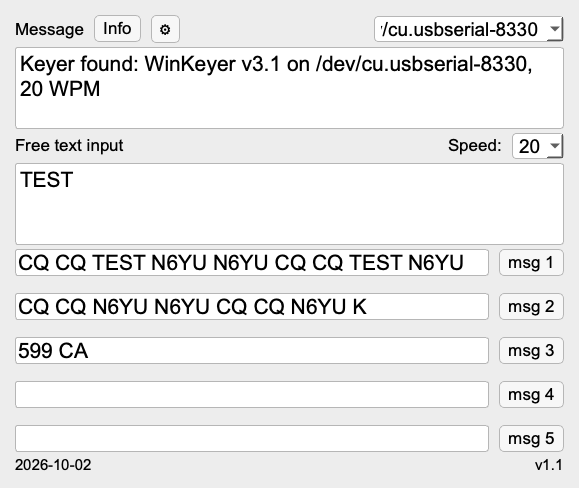
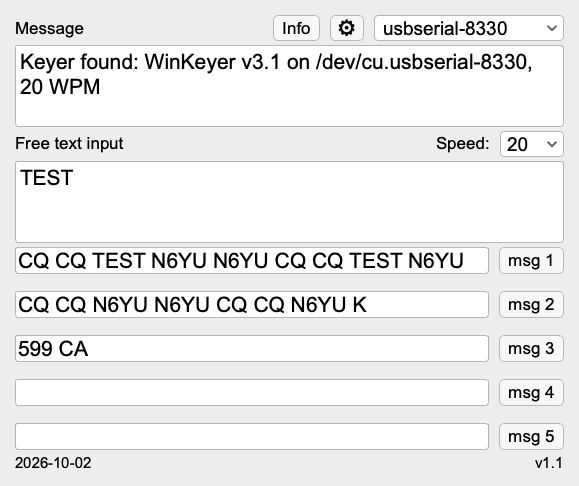
feat: port dropdown back to 14 pt; window title and Info summary read 'Keyer-mac'
Operator request: only the visible title bar and Info text change; file, repo and config names stay keyer-mac. README screenshot re-rendered with the new header.

diff --git a/keyer_mac/ui.py b/keyer_mac/ui.py
@@ -33,7 +33,6 @@ WINDOW_BG = "#ededed"
 FIELD_BG = "#ffffff"
 FONT_FAMILY = "Arial"
 PT_ENTRY, PT_DROPDOWN, PT_LABEL, PT_FOOTER = 16, 14, 13, 11
-PT_PORT = 12                # the port name is secondary information: smaller, quieter
 PT_GEAR = 20                # the gear glyph needs to be big to read as a gear
 CONTROL_HEIGHT = 26         # Info, gear and both dropdowns share one height
 HEADER_GAP = 10             # Info | gear | port box spacing
@@ -96,7 +95,7 @@ def diff_edit(old: str, new: str) -> tuple[int, str]:
     return len(old) - common, new[common:]
 
 
-INFO_SUMMARY = "keyer-mac is an auto keyer written for the Mac to interface with a WinKeyer Mini via USB."
+INFO_SUMMARY = "Keyer-mac is an auto keyer written for the Mac to interface with a WinKeyer Mini via USB."
 REPO = "jcarter-labs/keyer-mac"
 REPO_URL = "https://github.com/jcarter-labs/keyer-mac"
 
@@ -129,7 +128,7 @@ def info_text(port: str | None, firmware: int | None, config_file, xmlrpc: str) 
 class InfoDialog(QDialog):
     def __init__(self, text: str, parent=None):
         super().__init__(parent)
-        self.setWindowTitle("keyer-mac info")
+        self.setWindowTitle("Keyer-mac info")
         self.setStyleSheet(STYLE)
         layout = QVBoxLayout(self)
         self.body = QTextBrowser()
@@ -223,7 +222,7 @@ class MainWindow(QWidget):
                  list_ports=ports_mod.list_ports, start_bridge: bool = False,
                  bridge_host: str = "0.0.0.0", bridge_port: int = 8000):
         super().__init__()
-        self.setWindowTitle("keyer-mac")
+        self.setWindowTitle("Keyer-mac")
         self.setStyleSheet(STYLE)
         self.cfg = cfg if cfg is not None else config.load()
         self._list_ports = list_ports
@@ -263,7 +262,7 @@ class MainWindow(QWidget):
         # port dropdown: editable; picking or typing a port tries it at once
         self.port_box = QComboBox()
         self.port_box.setEditable(True)
-        self.port_box.setFont(arial(PT_PORT))
+        self.port_box.setFont(arial(PT_DROPDOWN))
         self.port_box.setView(QListView())
         self.port_box.setFixedSize(PORT_BOX_WIDTH, CONTROL_HEIGHT)
         header.addWidget(self.header_label)

diff --git a/tools/ui_fidelity_check.py b/tools/ui_fidelity_check.py
@@ -53,7 +53,7 @@ def build_targets() -> dict:
             "window_background": win["window"]["background"],
             "field_fill": win["text_boxes"][0]["fill"],
             "font_family": "Arial",
-            "font_pt": {"entry_and_display": 16, "speed_dropdown": 14, "port_dropdown": 12,
+            "font_pt": {"entry_and_display": 16, "dropdowns": 14,
                         "labels_and_buttons": 13, "gear_glyph": 20, "footer": 11},
             "header_gap": 10,
             "control_height": 26,
@@ -81,7 +81,7 @@ def check_window(targets: dict, out_png: str) -> list[tuple[str, bool, str]]:
     import keyer_mac
     from keyer_mac import config
     from keyer_mac.ui import (FONT_FAMILY, PT_DROPDOWN, PT_ENTRY, PT_FOOTER, PT_GEAR, PT_LABEL,
-                              PT_PORT, MainWindow)
+                              MainWindow)
 
     t = targets["targets_1_1"]
     tol = targets["tolerance_px"]
@@ -154,8 +154,7 @@ def check_window(targets: dict, out_png: str) -> list[tuple[str, bool, str]]:
         return f.family() == FONT_FAMILY and f.pointSize() == pt
     groups = {
         f"{PT_ENTRY} pt entry/display": [win.message, win.free_text, *win.msg_fields],
-        f"{PT_DROPDOWN} pt speed dropdown": [win.speed_box],
-        f"{PT_PORT} pt port dropdown": [win.port_box],
+        f"{PT_DROPDOWN} pt dropdowns": [win.speed_box, win.port_box],
         f"{PT_LABEL} pt labels/buttons": [win.header_label, win.free_label, win.speed_label, win.info_button,
                                           *win.msg_buttons],
         f"{PT_GEAR} pt gear glyph": [win.gear],

diff --git a/tests/test_info.py b/tests/test_info.py
@@ -24,7 +24,7 @@ def win(qtbot, tmp_path, monkeypatch):
 def test_summary_line_comes_first_and_says_what_the_app_is():
     text = info_text("/dev/cu.usbserial-1", 0x1F, "/x/cfg.json", "0.0.0.0:8000")
     assert text.splitlines()[0] == INFO_SUMMARY
-    assert INFO_SUMMARY == "keyer-mac is an auto keyer written for the Mac to interface with a WinKeyer Mini via USB."
+    assert INFO_SUMMARY == "Keyer-mac is an auto keyer written for the Mac to interface with a WinKeyer Mini via USB."
 
 
 def test_every_required_item_is_listed():

diff --git a/tests/test_port_dropdown.py b/tests/test_port_dropdown.py
@@ -127,4 +127,4 @@ def test_speed_box_is_wide_enough_for_its_popup_and_the_gear_glyph_is_big(qtbot,
     r = Rig(qtbot, [WK])
     assert r.win.speed_box.width() >= 60
     assert r.win.gear.font().pointSize() == 20
-    assert r.win.port_box.font().pointSize() == 12
+    assert r.win.port_box.font().pointSize() == 14

diff --git a/masterplan.md b/masterplan.md
@@ -16,14 +16,14 @@ keyer-mac v1.1 is a macOS auto keyer for the K1EL WinKeyer Mini over USB. The op
 
 ## Screen list
 
-Window "keyer-mac", about 579 pt wide, 15 pt margins, 10 pt between columns, Arial throughout. Background gray `#ededed`; the two text boxes and five message fields white `#ffffff`. Precedence when the two screenshots differ: this plan's stated changes, then `keyer-mac-running.png` (widget style, spacing, window chrome), then `keyer-win-ui.png` (row order, element set, gray window with white fields; its "send msg N" text and "K6GTE PyWinKeyer" title are stale and ignored). The connected state is shown in `keyer-mac-1.1.png` (rendered from the real window). Heights come from the layout; every numeric target, including width, is the measured value in `tools/ui_targets.json`, and the 579 pt here is only the starting value.
+Window "Keyer-mac", about 579 pt wide, 15 pt margins, 10 pt between columns, Arial throughout. Background gray `#ededed`; the two text boxes and five message fields white `#ffffff`. Precedence when the two screenshots differ: this plan's stated changes, then `keyer-mac-running.png` (widget style, spacing, window chrome), then `keyer-win-ui.png` (row order, element set, gray window with white fields; its "send msg N" text and "K6GTE PyWinKeyer" title are stale and ignored). The connected state is shown in `keyer-mac-1.1.png` (rendered from the real window). Heights come from the layout; every numeric target, including width, is the measured value in `tools/ui_targets.json`, and the 579 pt here is only the starting value.
 
 | # | Element | Type | Where it sits |
 |---|---|---|---|
 | 1 | "Message" | label | Row 0, far left, vertically centered |
 | 2 | "Info" | button | Row 0, right group: left of the gear, 10 pt gap |
 | 3 | ⚙ | button, 34 pt wide, glyph 20 pt (opens settings dialog) | Row 0, between Info and the port dropdown, 10 pt gaps either side |
-| 4 | Port dropdown | editable combo box, 12 pt; shows the name without `/dev/cu.` (full path in the tooltip and the list tooltips); a typed bare name gets `/dev/cu.` added | Row 0, right-aligned to the margin, 190 pt wide (half the 1.0 width), right of the gear |
+| 4 | Port dropdown | editable combo box, 14 pt; shows the name without `/dev/cu.` (full path in the tooltip and the list tooltips); a typed bare name gets `/dev/cu.` added | Row 0, right-aligned to the margin, 190 pt wide (half the 1.0 width), right of the gear |
 | 5 | Message box | read-only text, 3 lines, white | Row 1, full width, left-justified; sent text and status |
 | 6 | "Free text input" | label | Row 2, far left |
 | 7 | "Speed:" | label | Row 2, right-justified, directly left of the speed dropdown |
@@ -41,8 +41,7 @@ Rows 4–8 are evenly spaced. Info, ⚙, the port dropdown and the speed dropdow
 | Type size (line spacing about 1.3×; no added borders or bold) | Size |
 |---|---|
 | Message box, free-text input, message fields 1–5 | 16 pt |
-| Speed dropdown | 14 pt |
-| Port dropdown (secondary information) | 12 pt |
+| Port dropdown, speed dropdown | 14 pt |
 | Labels, Info/"msg N" buttons | 13 pt |
 | ⚙ glyph | 20 pt |
 | Footer (date, "v1.1") | 11 pt |
@@ -65,7 +64,7 @@ Rows 4–8 are evenly spaced. Info, ⚙, the port dropdown and the speed dropdow
 4. **Speed.** Even values 6, 8 … 34 WPM, default 20. Picking a value sends it at once and saves it as `speed`; the dropdown always shows the value last sent. The WK-mini has no pot, so no pot input changes it. XMLRPC `setspeed` updates the dropdown too.
 5. **Settings (⚙).** The dialog sets Iambic A/B, Ultimatic, Bug, paddle swap, echo-back, autospace and CT spacing. Saving packs the mode register (default `11001110`), writes it to the keyer, and saves it as `mode_register`. Cancel changes nothing.
 6. **XMLRPC bridge.** `http://<host>:8000`, bound to `0.0.0.0`, no authentication. Methods: `k1elsendstring(str)`, `setspeed(int)`, `sendblended(str)`, `tuneon()`, `tuneoff()`, `clearbuffer()`. `setspeed` accepts only even values 6–34; anything else returns an XMLRPC fault and changes nothing. Pass: a call from another process sends the string and returns within 1 s. If port 8000 is in use, the app still starts and says so in the Message box.
-7. **Info.** The button opens a dialog that starts with "keyer-mac is an auto keyer written for the Mac to interface with a WinKeyer Mini via USB," then: version, connected port, WinKeyer firmware, config-file path, XMLRPC address and methods, the mbridak attribution and GPL notice, "Designed to work with the K1EL WinKeyer Mini," and `jcarter-labs/keyer-mac` with its URL. Closing changes nothing.
+7. **Info.** The button opens a dialog that starts with "Keyer-mac is an auto keyer written for the Mac to interface with a WinKeyer Mini via USB," then: version, connected port, WinKeyer firmware, config-file path, XMLRPC address and methods, the mbridak attribution and GPL notice, "Designed to work with the K1EL WinKeyer Mini," and `jcarter-labs/keyer-mac` with its URL. Closing changes nothing.
 8. **Diagnostics.** When a connect or a send fails, the Message box adds a line `HH:MM:SS <what failed>: <reason>`: no WinKeyer-mini visible; port could not be opened (with the system error); opened but no answer to host open (3 tries); answered but failed the echo test; disconnected, with the cause (serial error, no answer to the idle echo test, or which command's write failed). A successful connect prints none of these.
 9. **Footer.** The date is the build date (`YYYY-MM-DD`), a constant `__build_date__` beside `__version__`, not read from the clock. "v1.1" is the version.
 

diff --git a/idea.md b/idea.md
@@ -42,7 +42,7 @@ pot input is ignored.
    `tuneon`, `tuneoff`, `clearbuffer`. Example client:
    `xmlrpc.client.ServerProxy("http://localhost:8000").k1elsendstring("Hello World")`.
    A port-8000 conflict must not abort the app.
-7. Info button: modal that opens with a summary: **"keyer-mac is an auto keyer
+7. Info button: modal that opens with a summary: **"Keyer-mac is an auto keyer
    written for the Mac to interface with a WinKeyer Mini via USB."** Below it:
    the app name and version, connected port,
    WinKeyer firmware version, config-file path, XMLRPC address and methods,
@@ -75,7 +75,7 @@ window with white fields, and the element set. `keyer-win-ui.png`'s "send msg
 N" text and "K6GTE PyWinKeyer" title are stale and ignored. Neither image
 shows Info, the footer or the 5-row list, so those follow the table below.
 
-Window title "keyer-mac". **Font: Arial everywhere** (labels, fields, buttons, dropdowns,
+Window title "Keyer-mac". **Font: Arial everywhere** (labels, fields, buttons, dropdowns,
 Info dialog). **Background: light gray `#ededed`, entry and display fields
 white `#ffffff`** so they stand out (both measured from `keyer-win-ui.png`).
 
